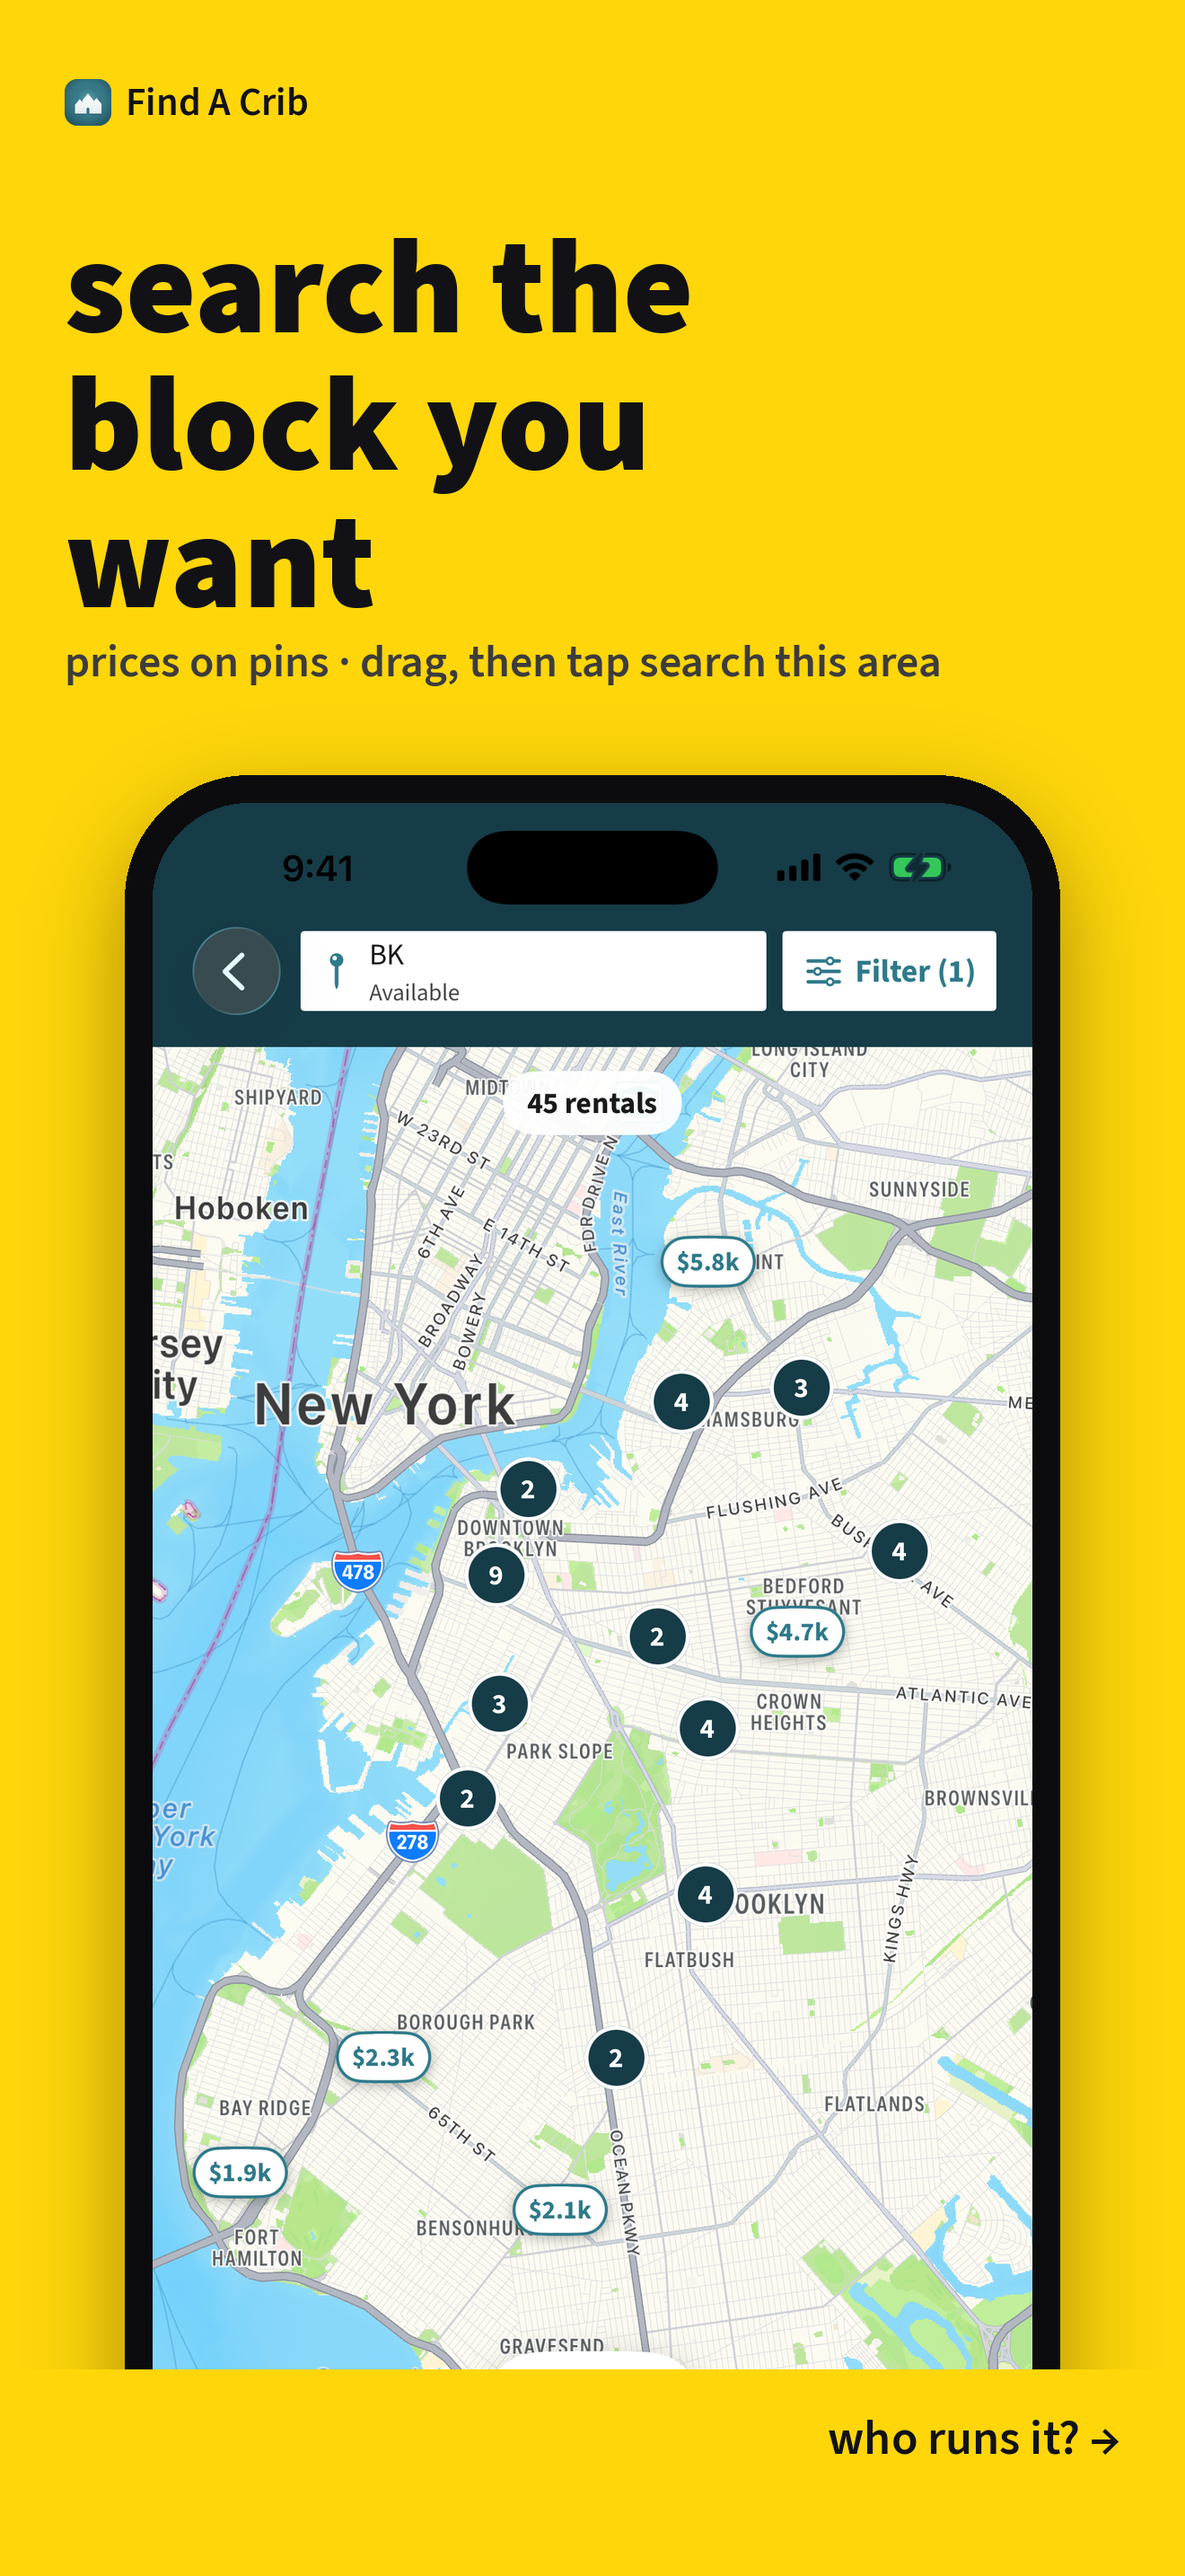
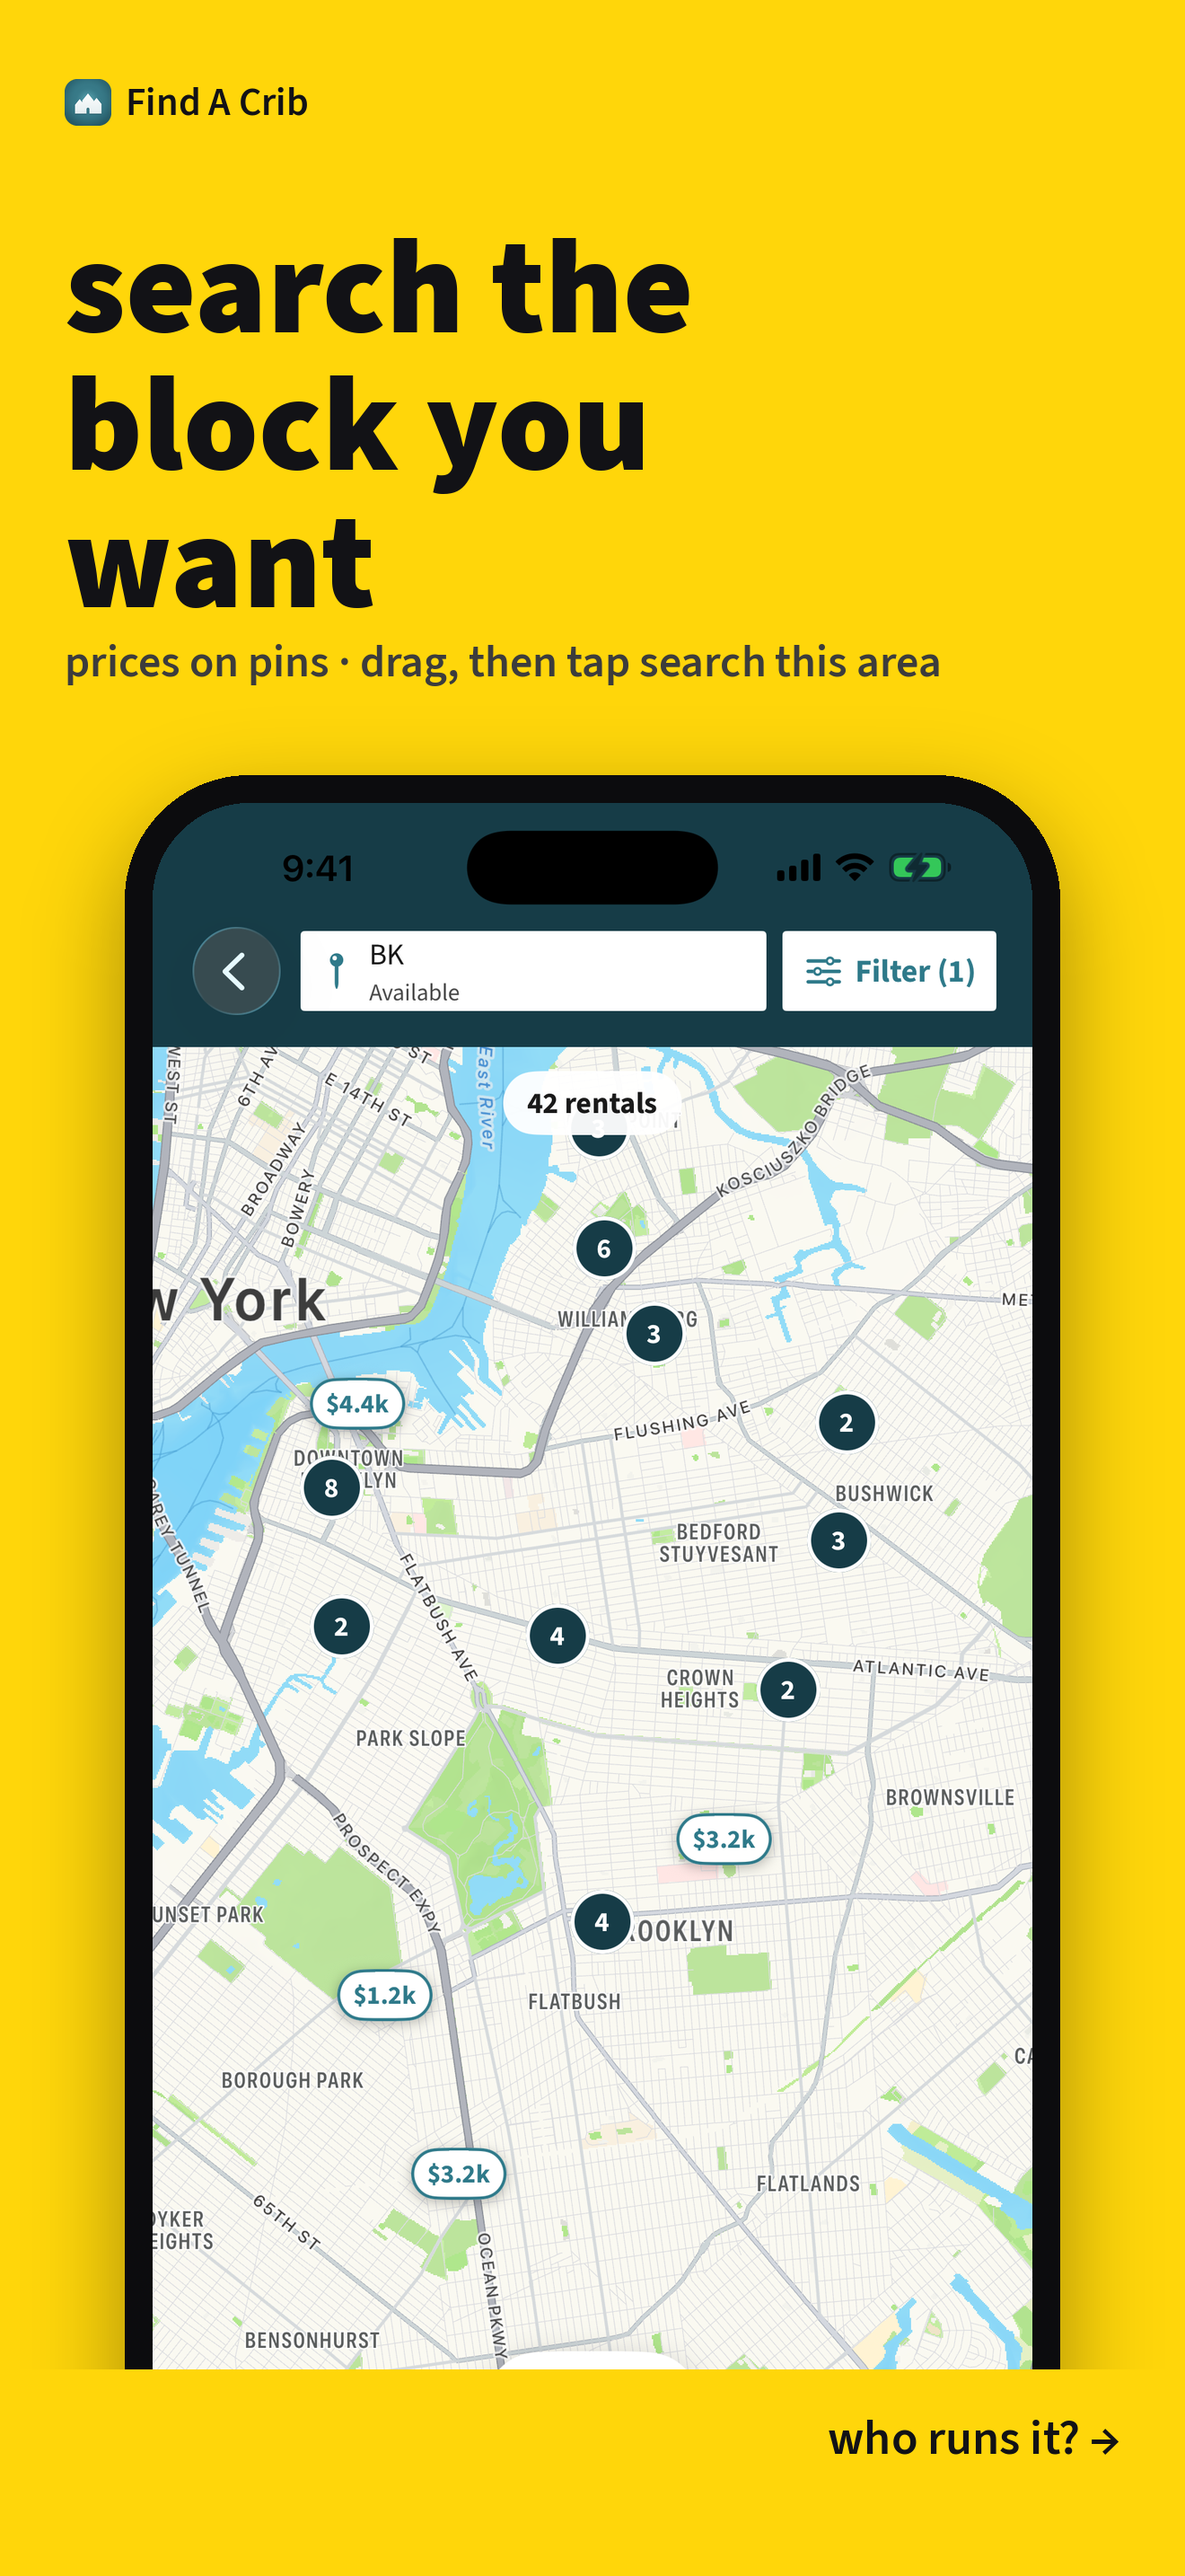
Refresh the App Store screenshots from the current build; panel 5 is the Lotteries tab
Owner request. Recaptured all five raw screens from today's code on an
iPhone 17 Pro Max simulator (1320x2868, 9:41 status bar): search home
with the street-photo mosaic loaded, Brooklyn results, map, 172 Union
St (now showing Violations & inspections first), and the new Lotteries
tab (subscriber demo, all five boroughs: 11 lotteries, 48 re-rentals).
Panel 5 was the HCR lotteries/waitlists search; it is now "lotteries
in your boroughs". Same house layout via make_screenshots.py.

Changed region(s): [[0.1242, 0.4034, 0.8697, 0.931]]

diff --git a/ios/scripts/make_screenshots.py b/ios/scripts/make_screenshots.py
@@ -4,7 +4,7 @@ portrait panels alternating a yellow accent field and white, an oversized
 lowercase headline, the real app screen in a rounded device bezel, the brand
 small in the corner, and a continuation cue leading into the next panel.
 
-Input : marketing/raw/{home,results,map,detail,hcr}.png (1320x2868 simulator shots)
+Input : marketing/raw/{home,results,map,detail,lotteries}.png (1320x2868 simulator shots)
 Output: marketing/asc-screenshots/0N-*.png at 1320x2868 (App Store 6.9")
 
     python3 scripts/make_screenshots.py
@@ -133,5 +133,5 @@ if __name__ == "__main__":
           "prices on pins · drag, then tap search this area", os.path.join(RAW, "map.png"), "who runs it? →")
     panel(4, "detail", WHITE, ["know the", "building", "first"],
           "violations, the managing agent, typical rent", os.path.join(RAW, "detail.png"), "apply for a lottery →")
-    panel(5, "hcr", YELLOW, ["lotteries &", "waitlists,", "one tap"],
-          "HCR affordable housing · Section 8 buildings", os.path.join(RAW, "hcr.png"))
+    panel(5, "lotteries", YELLOW, ["lotteries in", "your", "boroughs"],
+          "Housing Connect lotteries & re-rentals", os.path.join(RAW, "lotteries.png"))
